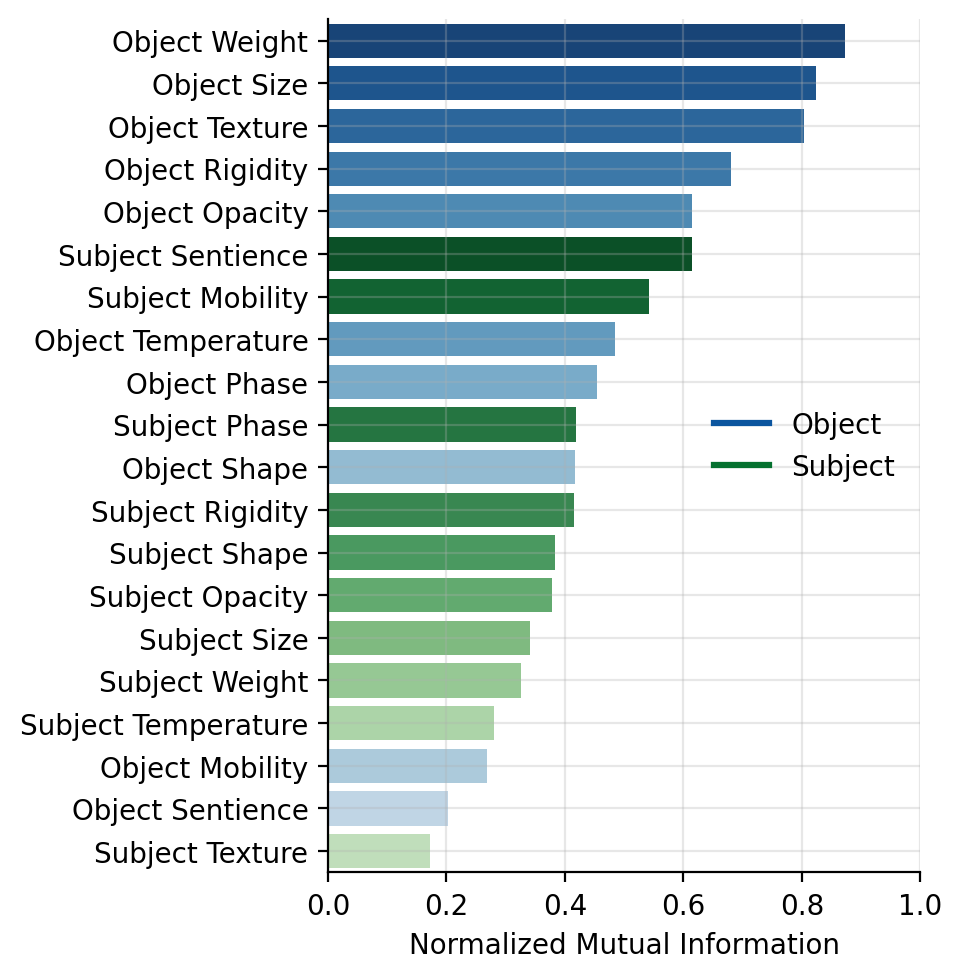
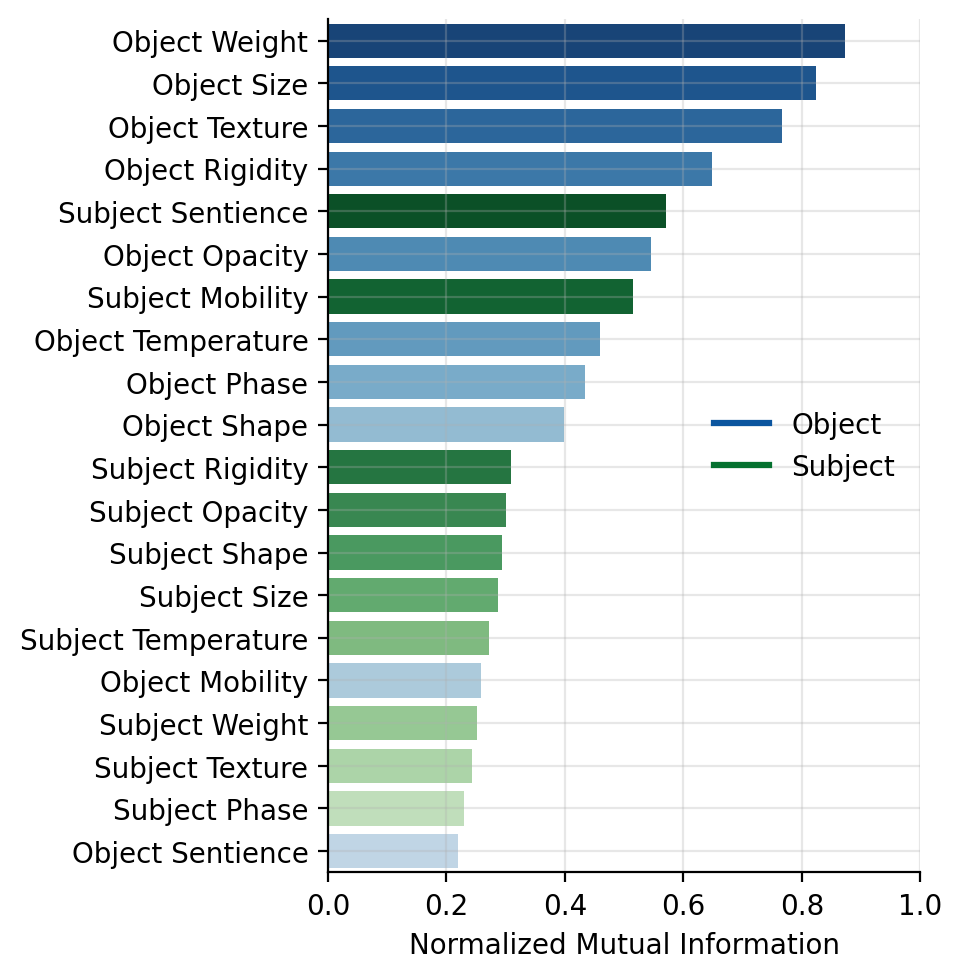
Seed mutual information estimation

diff --git a/scripts/run_property_plausibility_mutual_info.py b/scripts/run_property_plausibility_mutual_info.py
@@ -40,6 +40,12 @@ parser.add_argument(
     default=50,
     help='The amount of re-sample to estimate mutual information statistics',
 )
+parser.add_argument(
+    '--rng',
+    type=int,
+    default=1337,
+    help='The random state to use when estimating mutual information, for reproducibility',
+)
 
 
 def main() -> None:
@@ -47,7 +53,7 @@ def main() -> None:
     plausibility_df = _read_subdirectory_dataset_csvs(args.plausibility_datasets_dir)
     property_df = _read_subdirectory_dataset_csvs(args.property_datasets_dir)
     df = get_merged_plausibility_property_data(plausibility_df, property_df)
-    mi_df = compute_mutual_info_scores(df, args.n_mutual_info_samples)
+    mi_df = compute_mutual_info_scores(df, args.n_mutual_info_samples, args.rng)
     plot_mi_df(mi_df, args.artifacts_dir)
 
 
@@ -76,7 +82,9 @@ def get_merged_plausibility_property_data(
     return df
 
 
-def compute_mutual_info_scores(df: pd.DataFrame, n_samples: int) -> pd.DataFrame:
+def compute_mutual_info_scores(
+    df: pd.DataFrame, n_samples: int, rng: int
+) -> pd.DataFrame:
     mi_data: Dict[str, List[float]] = {
         'task': [],
         'entity': [],
@@ -84,10 +92,10 @@ def compute_mutual_info_scores(df: pd.DataFrame, n_samples: int) -> pd.DataFrame
         'mi': [],
     }
     groups = ['task', 'entity', 'property']
-    for _ in range(n_samples):
+    for i in range(n_samples):
         for (task, entity, property), df_g in df.groupby(groups):
             x, y = df_g[['property_label']], df_g['plausibility']
-            mi = mutual_info_classif(x, y)[0]
+            mi = mutual_info_classif(x, y, random_state=rng + i)[0]
             mi_data['task'].append(task)
             mi_data['entity'].append(entity)
             mi_data['property'].append(property)
